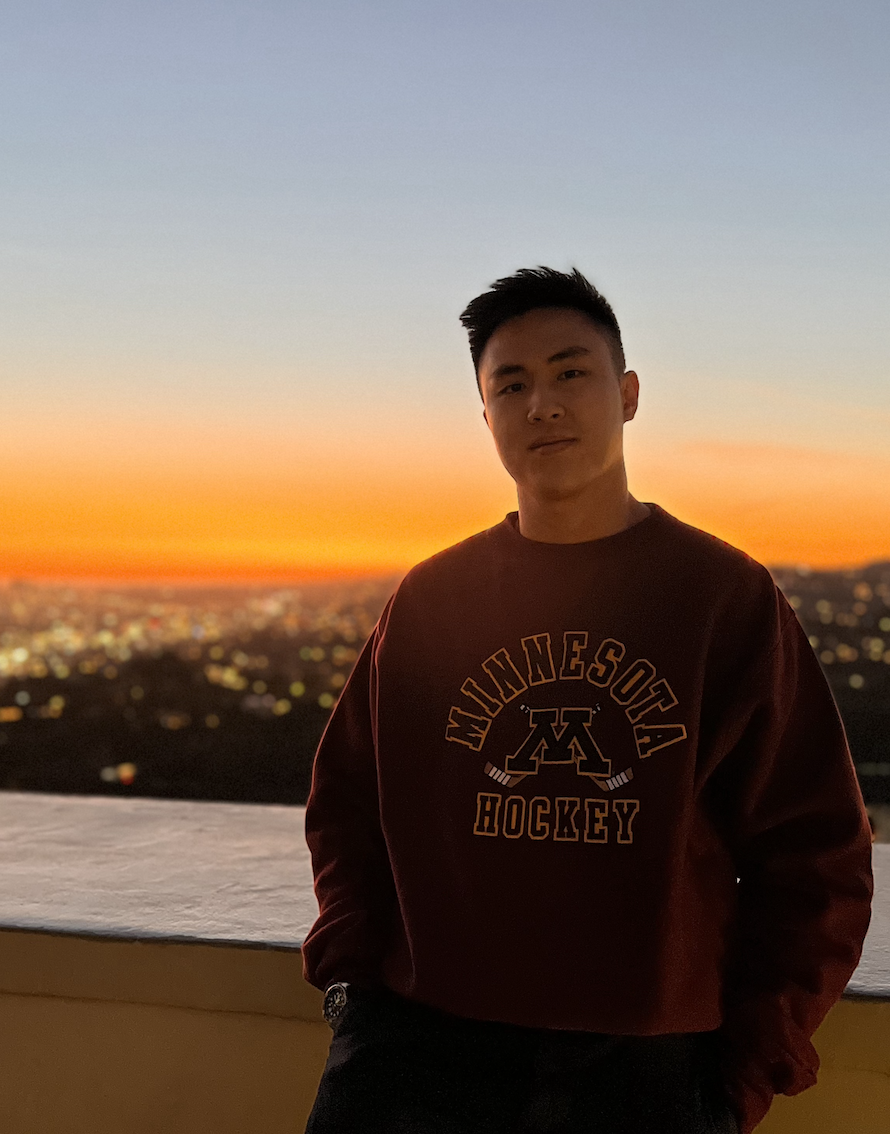
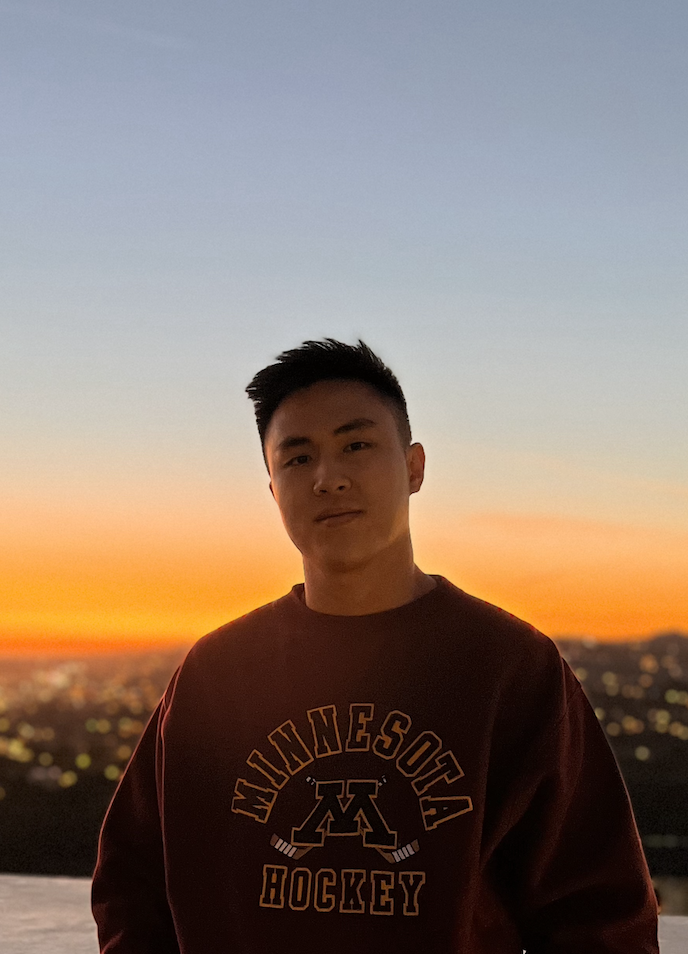
add more breakpoints for background image

diff --git a/src/components/welcome/index.js b/src/components/welcome/index.js
@@ -7,19 +7,19 @@ const Welcome = () => {
 
   useEffect(() => {
     setShow(true);
-  }, []);
+  }, [show]);
 
   return (
     <div class="h-full text-white">
       <div class="welcome h-full bg-no-repeat bg-cover" >
         <div class="h-16"></div>
-        <div class="font-sans text-6xl font-extrabold text-black ml-10 mt-10 mobile:ml-5 mobile:mt-10 mobile:text-4xl">
+        <div class="font-sans text-6xl font-extrabold text-black ml-10 mt-10 mobile:ml-8 mobile:mt-10 mobile:text-4xl">
           Hello World,
         </div>
-        <div class="font-sans text-4xl font-bold text-black ml-10 mobile:ml-5 mobile:text-3xl">
+        <div class="font-sans text-4xl font-bold text-black ml-10 mobile:ml-8 mobile:text-3xl">
           my name is
         </div>
-        <div class="font-sans text-8xl font-extrabold text-black ml-10 mt-2 mobile:ml-5 mobile:mt-1 mobile:text-5xl">
+        <div class="font-sans text-8xl font-extrabold text-black ml-10 mt-2 mobile:ml-8 mobile:mt-1 mobile:text-5xl">
           <ReactRevealText show={show}>Zhuo Yao</ReactRevealText>
         </div>
       </div>

diff --git a/src/components/welcome/welcome.css b/src/components/welcome/welcome.css
@@ -2,9 +2,21 @@
   background-image: url("../../assets/profile.png")
 }
 
-/* mobile view */
-@media (max-width: 760px) {
+/* tablet view */
+@media (max-width: 1160px) {
+  .welcome {
+    background-image: url("../../assets/profile_tablet.png")
+  }
+}
+
+@media (max-width: 1060px) {
   .welcome {
     background-image: url("../../assets/profile_mobile.png")
+  }
+}
+
+@media (max-width: 450px) {
+  .welcome {
+    background-image: url("../../assets/profile_mini.png")
   }
 }

diff --git a/src/App.js b/src/App.js
@@ -1,10 +1,12 @@
 import './App.css';
 import FrontPage from './components/frontpage';
+import About from './components/about';
 
 function App() {
   return (
     <div class="relative">
       <FrontPage />
+      <About />
     </div>
   );
 }

diff --git a/tailwind.config.js b/tailwind.config.js
@@ -4,7 +4,7 @@ module.exports = {
   ],
   theme: {
     screens: {
-      'mobile': { 'max': '640px' },
+      'mobile': { 'max': '600px' },
       'tablet': { 'max': '768px' },
     },
     extend: {},
